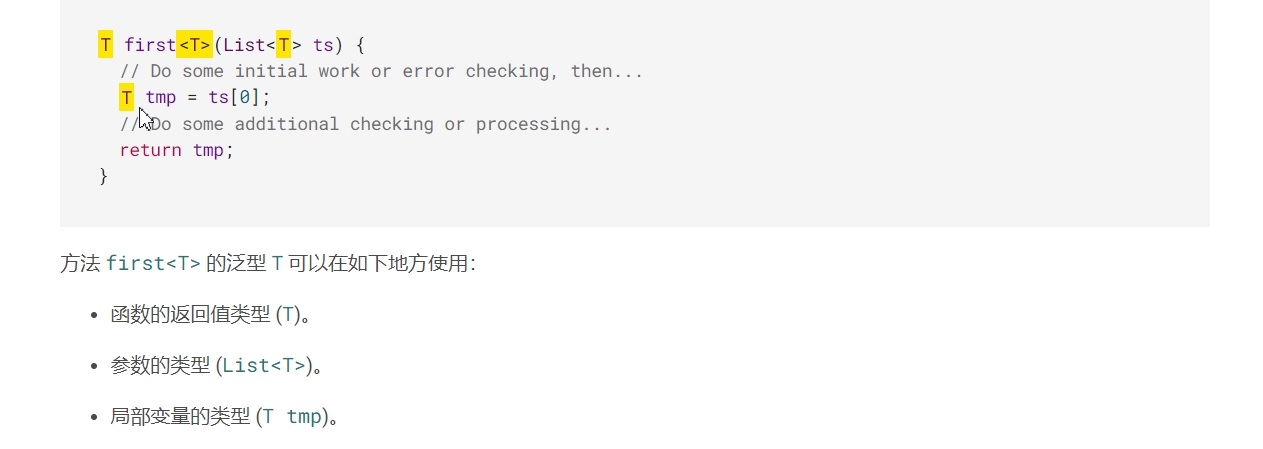
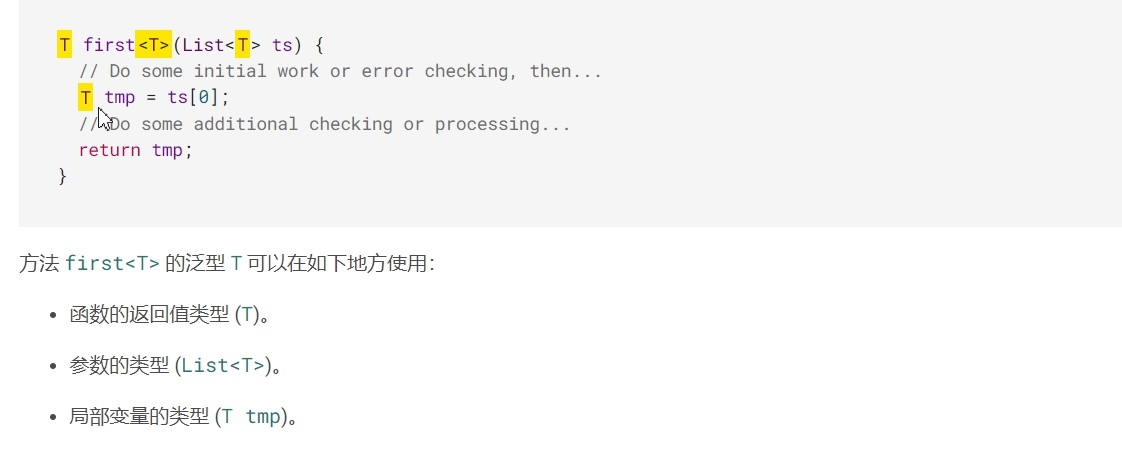
rebuilding site 2022年 02月 21日 星期一 16:50:18 CST xiaoxiano/xiaoxiano.github.io.source@d4a157f81df73d4bb645567166e7743765dcd494

diff --git a/p/ubuntu/index.html b/p/ubuntu/index.html
@@ -18,7 +18,7 @@ push脚本 #!/bin/bash echo -e &amp;#34;\033[0;32mDeploying updates to GitHub...
 <meta name=msapplication-TileColor content="#da532c">
 <meta name=apple-mobile-web-app-title content="rmdhnreza.my.id - Blog Tutorial For Linux & Windows">
 <meta name=application-name content="rmdhnreza.my.id - Blog Tutorial For Linux & Windows">
-<script type=application/ld+json>{"@context":"https://schema.org","@type":"BlogPosting","name":"常用命令","headline":"常用命令","description":"git git命令 官网git备忘表比各种教程都易看\npush脚本 #!\/bin\/bash echo -e \u0026#34;\\033[0;32mDeploying updates to GitHub...\\033[0m\u0026#34; # Add changes to git. git add . # Commit changes. msg=\u0026#34;rebuilding site `date`\u0026#34; if [ $# -eq 1 ] then msg=\u0026#34;$1\u0026#34; fi git commit -m \u0026#34;$msg\u0026#34; # Push source and build repos. git push origin master 公开仓库fork为私有仓库  fork一个公开仓库 使用github导入功能，写fork仓库的地址，并创建私有仓库 本地操作  git clone git@github.com:\u0026lt;your_username\u0026gt;\/\u0026lt;your_repo\u0026gt;.git #克隆到本地 git remote add upstream git@github.com:\u0026lt;original_owner\u0026gt;\/\u0026lt;original_repo\u0026gt;.git #添加上游(源)仓库用于更新 git remote set-url --push upstream DISABLE #禁用推送到上游(源)仓库 git remote -v可以看到：  origin\tgit@github.","inLanguage":"en-US","isFamilyFriendly":"true","mainEntityOfPage":{"@type":"WebPage","@id":"https:\/\/www.jiangdaoli.cf\/p\/ubuntu\/"},"author":{"@type":"Person","name":"rmdhnreza"},"creator":{"@type":"Person","name":"rmdhnreza"},"accountablePerson":{"@type":"Person","name":"rmdhnreza"},"copyrightHolder":"银之介","copyrightYear":"2021","datePublished":"2021-07-22T00:00:00+00:00","dateModified":"2021-08-18T00:00:00+00:00","publisher":{"@type":"Organization","name":"银之介","url":"https://www.jiangdaoli.cf","logo":{"@type":"ImageObject","url":"https:\/\/www.jiangdaoli.cf/avatar.png","width":"112","height":"112"}},"image":"https://www.jiangdaoli.cf","url":"https:\/\/www.jiangdaoli.cf\/p\/ubuntu\/","wordCount":"494","tag":[],"keywords":[],"articleSection":["computer"]}</script>
+<script type=application/ld+json>{"@context":"https://schema.org","@type":"BlogPosting","name":"常用命令","headline":"常用命令","description":"git git命令 官网git备忘表比各种教程都易看\npush脚本 #!\/bin\/bash echo -e \u0026#34;\\033[0;32mDeploying updates to GitHub...\\033[0m\u0026#34; # Add changes to git. git add . # Commit changes. msg=\u0026#34;rebuilding site `date`\u0026#34; if [ $# -eq 1 ] then msg=\u0026#34;$1\u0026#34; fi git commit -m \u0026#34;$msg\u0026#34; # Push source and build repos. git push origin master 公开仓库fork为私有仓库  fork一个公开仓库 使用github导入功能，写fork仓库的地址，并创建私有仓库 本地操作  git clone git@github.com:\u0026lt;your_username\u0026gt;\/\u0026lt;your_repo\u0026gt;.git #克隆到本地 git remote add upstream git@github.com:\u0026lt;original_owner\u0026gt;\/\u0026lt;original_repo\u0026gt;.git #添加上游(源)仓库用于更新 git remote set-url --push upstream DISABLE #禁用推送到上游(源)仓库 git remote -v可以看到：  origin\tgit@github.","inLanguage":"en-US","isFamilyFriendly":"true","mainEntityOfPage":{"@type":"WebPage","@id":"https:\/\/www.jiangdaoli.cf\/p\/ubuntu\/"},"author":{"@type":"Person","name":"rmdhnreza"},"creator":{"@type":"Person","name":"rmdhnreza"},"accountablePerson":{"@type":"Person","name":"rmdhnreza"},"copyrightHolder":"银之介","copyrightYear":"2021","datePublished":"2021-07-22T00:00:00+00:00","dateModified":"2021-08-18T00:00:00+00:00","publisher":{"@type":"Organization","name":"银之介","url":"https://www.jiangdaoli.cf","logo":{"@type":"ImageObject","url":"https:\/\/www.jiangdaoli.cf/avatar.png","width":"112","height":"112"}},"image":"https://www.jiangdaoli.cf","url":"https:\/\/www.jiangdaoli.cf\/p\/ubuntu\/","wordCount":"498","tag":[],"keywords":[],"articleSection":["computer"]}</script>
 </head>
 <body class="article-page has-toc">
 <script>(function(){const a='StackColorScheme';localStorage.getItem(a)||localStorage.setItem(a,"auto")})()</script><script>(function(){const b='StackColorScheme',a=localStorage.getItem(b),c=window.matchMedia('(prefers-color-scheme: dark)').matches===!0;a=='dark'||a==='auto'&&c?document.documentElement.dataset.scheme='dark':document.documentElement.dataset.scheme='light'})()</script>
@@ -224,45 +224,51 @@ void main(){
 <div class=highlight><pre tabindex=0 class=chroma><code class=language-html data-lang=html>bool isNoble(int atomicNumber) {                 # bool:返回类型
   return _nobleGases[atomicNumber] != null;
 }
-</code></pre></div><p>箭头函数 =>
-<code>=> expr</code> 是 <code>{ return expr; }</code>的简写</p>
+</code></pre></div><ul>
+<li>箭头函数 =></li>
+</ul>
+<p><code>=> expr</code> 是 <code>{ return expr; }</code>的简写</p>
 <h3 id=运算符>运算符：</h3>
 <ul>
 <li>
 <p>算术运算符</p>
-<p><code>+</code>(加) <code>–</code>(减) <code>-</code>(负) <code>*</code>(乘) <code>/</code>(除) <code>~/</code>(取整) <code>%</code>（取余）</p>
+<p><code>+</code>(加)　　<code>–</code>(减)　　<code>-</code>(负)　　<code>*</code>(乘)　　<code>/</code>(除)　　<code>~/</code>(取整)　　<code>%</code>（取余）</p>
 </li>
 <li>
 <p>关系运算符</p>
 </li>
 </ul>
-<p><code>==</code> <code>！=</code> <code>></code> <code>&lt;</code> <code>>=</code> <code>&lt;=</code></p>
+<p><code>==</code>　　<code>！=</code>　　<code>></code>　　<code>&lt;</code>　　<code>>=</code>　　<code>&lt;=</code></p>
 <ul>
 <li>逻辑运算符</li>
 </ul>
-<p><code>!</code>(取反) <code>&&</code>(与) <code>||</code>(或)</p>
+<p><code>!</code>(取反)　　<code>&&</code>(与)　　<code>||</code>(或)</p>
 <ul>
 <li>赋值运算符</li>
 </ul>
-<p>基础赋值运算符 <code>=</code> <code>??=</code>(为 null 的变量赋值)
-复合赋值运算符 <code>+=</code> <code>-=</code> <code>*=</code> <code>/=</code> <code>%=</code> <code>~/=</code></p>
+<p>基础赋值运算符　　<code>=</code>　　<code>??=</code>(为 null 的变量赋值)</p>
+<p>复合赋值运算符　　<code>+=</code>　　<code>-=</code>　　<code>*=</code>　　<code>/=</code>　　<code>%=</code>　　<code>~/=</code></p>
 <ul>
-<li>
-<p>其他运算符
-<code>()</code> 使用一个方法
-<code>[]</code> 访问 List
-<code>?[]</code> 访问 List,左侧可以为null
-<code>.</code> 访问成员
-<code>?.</code> 访问成员,左侧可以为null</p>
-</li>
+<li>其他运算符
+<code>()</code>　　使用一个方法</li>
+</ul>
+<p><code>[]</code>　　访问 List</p>
+<p><code>?[]</code>　　访问 List,左侧可以为null</p>
+<p><code>.</code>　　访问成员</p>
+<p><code>?.</code>　　访问成员,左侧可以为null</p>
+<ul>
 <li>
 <p>if-else的表达式：</p>
 </li>
+<li>
+<p>condition <code>?</code> expr1 <code>:</code> expr2</p>
+</li>
 </ul>
-<p>condition <code>?</code> expr1 <code>:</code> expr2
-如果条件为真，则计算expr1（并返回其值）；否则，计算并返回expr2的值。</p>
-<p>expr1 <code>??</code> expr2
-如果expr1不为 null，则返回其值；否则，计算并返回expr2的值。</p>
+<p>如果条件为真，则计算expr1（并返回其值）；否则，计算并返回expr2的值。</p>
+<ul>
+<li>expr1 <code>??</code> expr2</li>
+</ul>
+<p>如果expr1不为 null，则返回其值；否则，计算并返回expr2的值。</p>
 <h3 id=类>类</h3>
 <ul>
 <li>抽象类、抽象方法
@@ -281,15 +287,15 @@ class EffectiveDoer extends Doer {
 }
 </code></pre></div><h3 id=泛型>泛型</h3>
 <p>泛型常用于需要要求类型安全的情况，可以减少代码重复。
-<figure class=gallery-image style=flex-grow:281;flex-basis:675px>
-<a href=/p/ubuntu/fanxing.jpg data-size=1263x449>
-<img src=/p/ubuntu/fanxing.jpg width=1263 height=449 srcset="/p/ubuntu/fanxing_hu022946fc38ef91feb47691dce96d4f93_98353_480x0_resize_q75_box.jpg 480w, /p/ubuntu/fanxing_hu022946fc38ef91feb47691dce96d4f93_98353_1024x0_resize_q75_box.jpg 1024w" loading=lazy>
+<figure class=gallery-image style=flex-grow:249;flex-basis:599px>
+<a href=/p/ubuntu/fanxing.jpg data-size=1122x449>
+<img src=/p/ubuntu/fanxing.jpg width=1122 height=449 srcset="/p/ubuntu/fanxing_hu6d02cad28d2736a6e42659b75fd941e7_62001_480x0_resize_q75_box.jpg 480w, /p/ubuntu/fanxing_hu6d02cad28d2736a6e42659b75fd941e7_62001_1024x0_resize_q75_box.jpg 1024w" loading=lazy>
 </a>
 </figure></p>
 <p>@override 注解来表示你重写了一个成员
-<figure class=gallery-image style=flex-grow:191;flex-basis:460px>
-<a href=/p/ubuntu/override.jpg data-size=1265x659>
-<img src=/p/ubuntu/override.jpg width=1265 height=659 srcset="/p/ubuntu/override_hu52550e144139e3b33bf8462b0daa1e5c_250738_480x0_resize_q75_box.jpg 480w, /p/ubuntu/override_hu52550e144139e3b33bf8462b0daa1e5c_250738_1024x0_resize_q75_box.jpg 1024w" loading=lazy>
+<figure class=gallery-image style=flex-grow:177;flex-basis:427px>
+<a href=/p/ubuntu/override.jpg data-size=1173x659>
+<img src=/p/ubuntu/override.jpg width=1173 height=659 srcset="/p/ubuntu/override_huf3ae0c28a53250be072483b49c760168_125842_480x0_resize_q75_box.jpg 480w, /p/ubuntu/override_huf3ae0c28a53250be072483b49c760168_125842_1024x0_resize_q75_box.jpg 1024w" loading=lazy>
 </a>
 </figure></p>
 <h2 id=shell>shell</h2>
@@ -383,6 +389,8 @@ echo &#34;Total value : $val&#34;
 </tbody>
 </table>
 <p>待续</p>
+<p>&lt;!doctype html></p>
+<p>&lt;!doctype html></p>
 </section>
 <footer class=article-footer>
 <section class=article-copyright><svg xmlns="http://www.w3.org/2000/svg" class="icon icon-tabler icon-tabler-copyright" width="24" height="24" viewBox="0 0 24 24" stroke-width="2" stroke="currentcolor" fill="none" stroke-linecap="round" stroke-linejoin="round"><path stroke="none" d="M0 0h24v24H0z"/><circle cx="12" cy="12" r="9"/><path d="M14.5 9a3.5 4 0 100 6"/></svg>

diff --git a/p/hugo-blog/index.html b/p/hugo-blog/index.html
@@ -15,7 +15,7 @@
 <meta name=msapplication-TileColor content="#da532c">
 <meta name=apple-mobile-web-app-title content="rmdhnreza.my.id - Blog Tutorial For Linux & Windows">
 <meta name=application-name content="rmdhnreza.my.id - Blog Tutorial For Linux & Windows">
-<script type=application/ld+json>{"@context":"https://schema.org","@type":"BlogPosting","name":"hugo使用stack主题搭建博客及部署","headline":"hugo使用stack主题搭建博客及部署","description":"搜索了搭建博客教程，仍花费我几天时间，本文旨在更全面简洁,对初学者友好","inLanguage":"en-US","isFamilyFriendly":"true","mainEntityOfPage":{"@type":"WebPage","@id":"https:\/\/www.jiangdaoli.cf\/p\/hugo-blog\/"},"author":{"@type":"Person","name":"rmdhnreza"},"creator":{"@type":"Person","name":"rmdhnreza"},"accountablePerson":{"@type":"Person","name":"rmdhnreza"},"copyrightHolder":"银之介","copyrightYear":"2021","datePublished":"2021-07-03T00:00:00+00:00","dateModified":"2021-12-16T00:00:00+00:00","publisher":{"@type":"Organization","name":"银之介","url":"https://www.jiangdaoli.cf","logo":{"@type":"ImageObject","url":"https:\/\/www.jiangdaoli.cf/avatar.png","width":"112","height":"112"}},"image":"https://www.jiangdaoli.cf","url":"https:\/\/www.jiangdaoli.cf\/p\/hugo-blog\/","wordCount":"502","tag":[],"keywords":[],"articleSection":["blog"]}</script>
+<script type=application/ld+json>{"@context":"https://schema.org","@type":"BlogPosting","name":"hugo使用stack主题搭建博客及部署","headline":"hugo使用stack主题搭建博客及部署","description":"搜索了搭建博客教程，仍花费我几天时间，本文旨在更全面简洁,对初学者友好","inLanguage":"en-US","isFamilyFriendly":"true","mainEntityOfPage":{"@type":"WebPage","@id":"https:\/\/www.jiangdaoli.cf\/p\/hugo-blog\/"},"author":{"@type":"Person","name":"rmdhnreza"},"creator":{"@type":"Person","name":"rmdhnreza"},"accountablePerson":{"@type":"Person","name":"rmdhnreza"},"copyrightHolder":"银之介","copyrightYear":"2021","datePublished":"2021-07-03T00:00:00+00:00","dateModified":"2021-12-16T00:00:00+00:00","publisher":{"@type":"Organization","name":"银之介","url":"https://www.jiangdaoli.cf","logo":{"@type":"ImageObject","url":"https:\/\/www.jiangdaoli.cf/avatar.png","width":"112","height":"112"}},"image":"https://www.jiangdaoli.cf","url":"https:\/\/www.jiangdaoli.cf\/p\/hugo-blog\/","wordCount":"495","tag":[],"keywords":[],"articleSection":["blog"]}</script>
 </head>
 <body class="article-page has-toc">
 <script>(function(){const a='StackColorScheme';localStorage.getItem(a)||localStorage.setItem(a,"auto")})()</script><script>(function(){const b='StackColorScheme',a=localStorage.getItem(b),c=window.matchMedia('(prefers-color-scheme: dark)').matches===!0;a=='dark'||a==='auto'&&c?document.documentElement.dataset.scheme='dark':document.documentElement.dataset.scheme='light'})()</script>
@@ -255,12 +255,8 @@ categories:                #文章分类
 <li>
 <p><code>*斜体*</code><br>
 <code>**加粗**</code><br>
-<code>~~删除线~~</code><br>
-<code>&lt;font color = #00FFFF size=default face="STCAIYUN">高亮&lt;/font></code></p>
+<code>~~删除线~~</code></p>
 </li>
-</ul>
-<p>==gkl==</p>
-<ul>
 <li>
 <p><code>* 无序列表</code><br>
 <code>双空格* 子无序列表</code></p>
